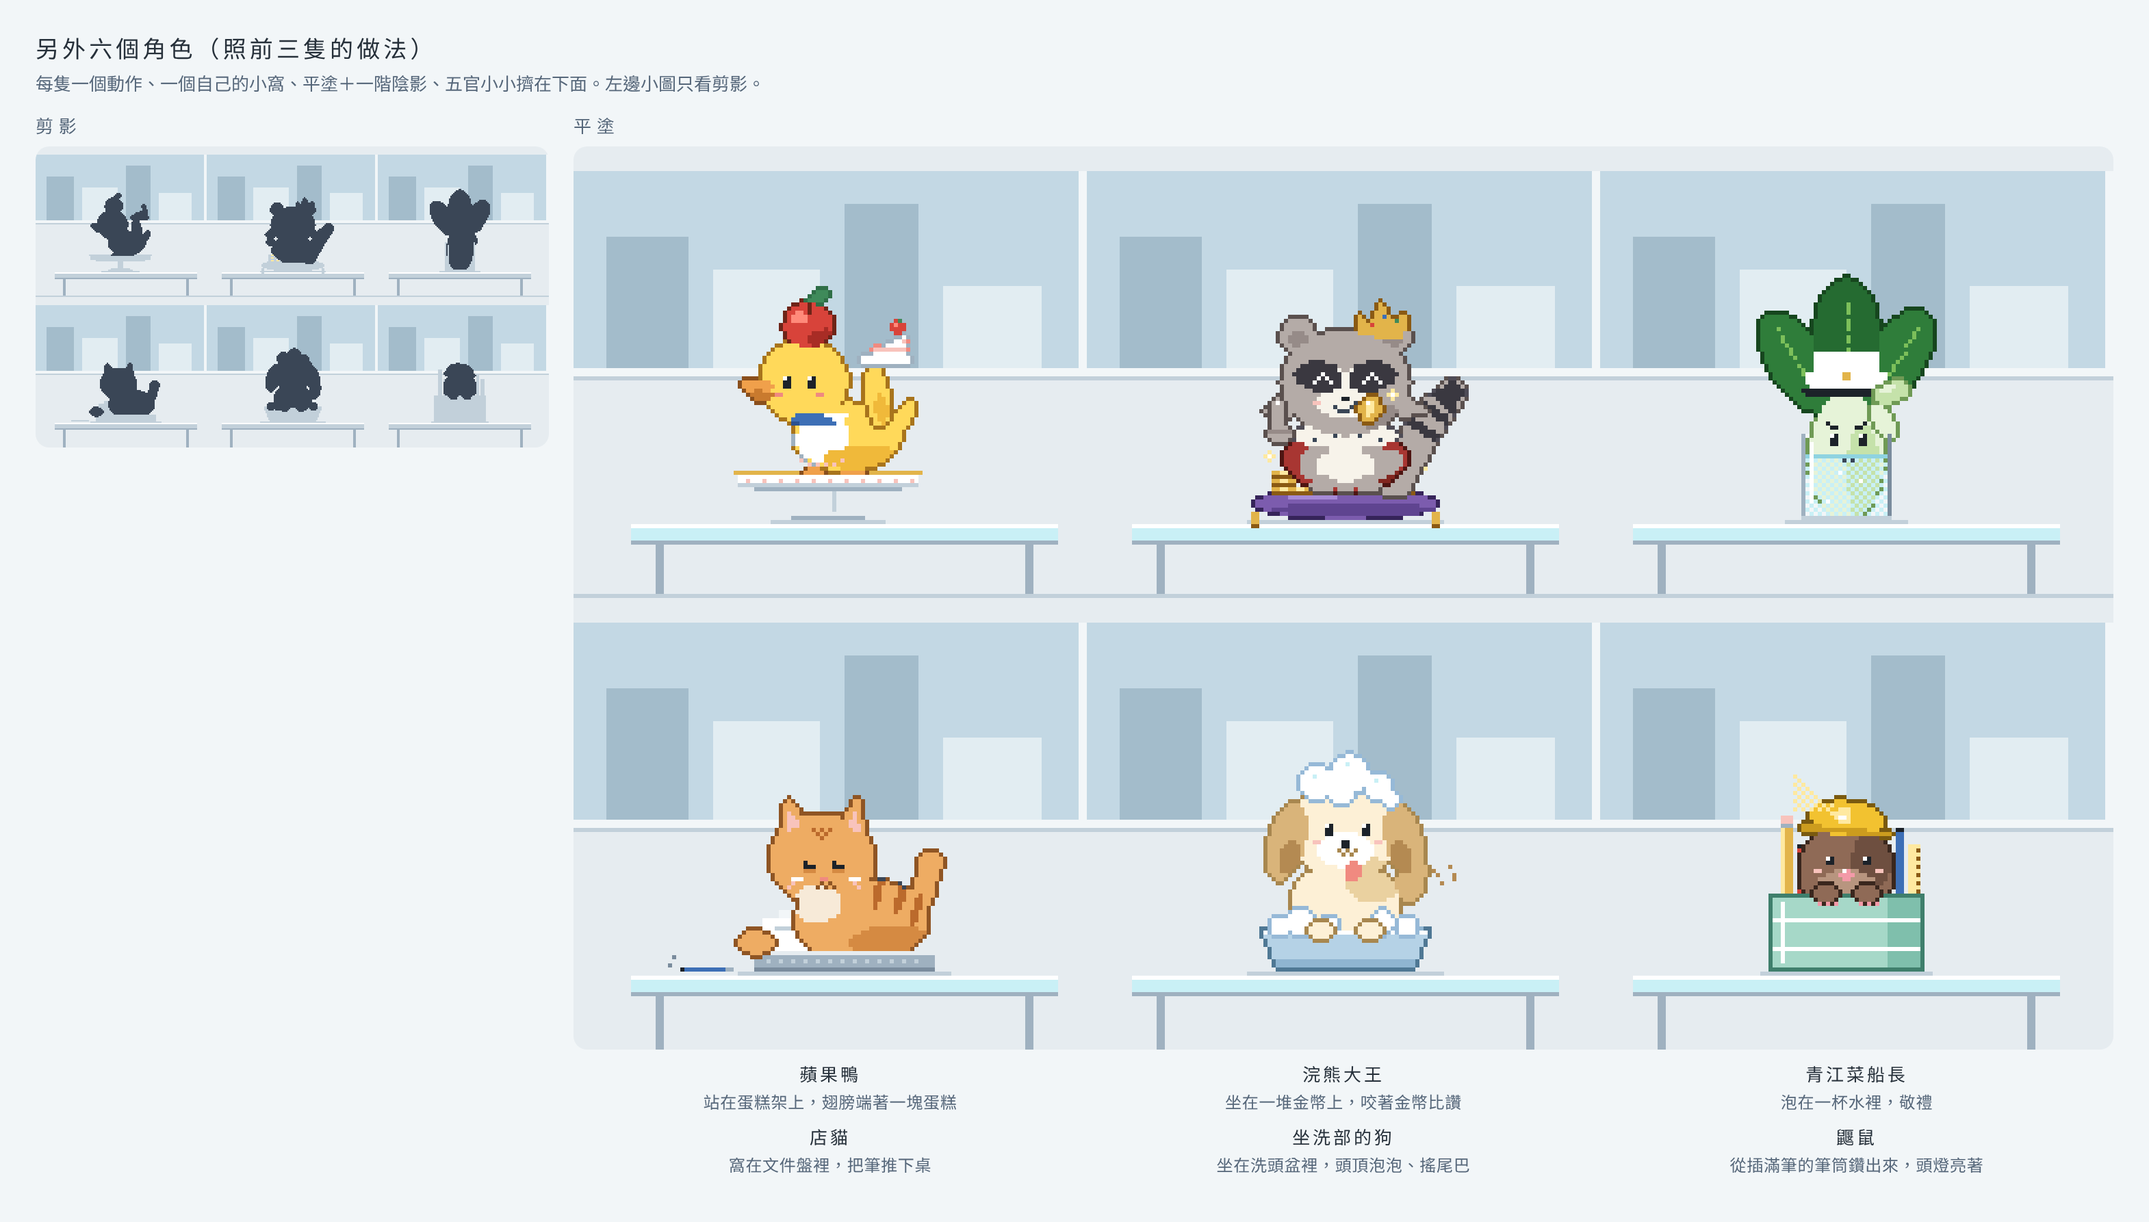
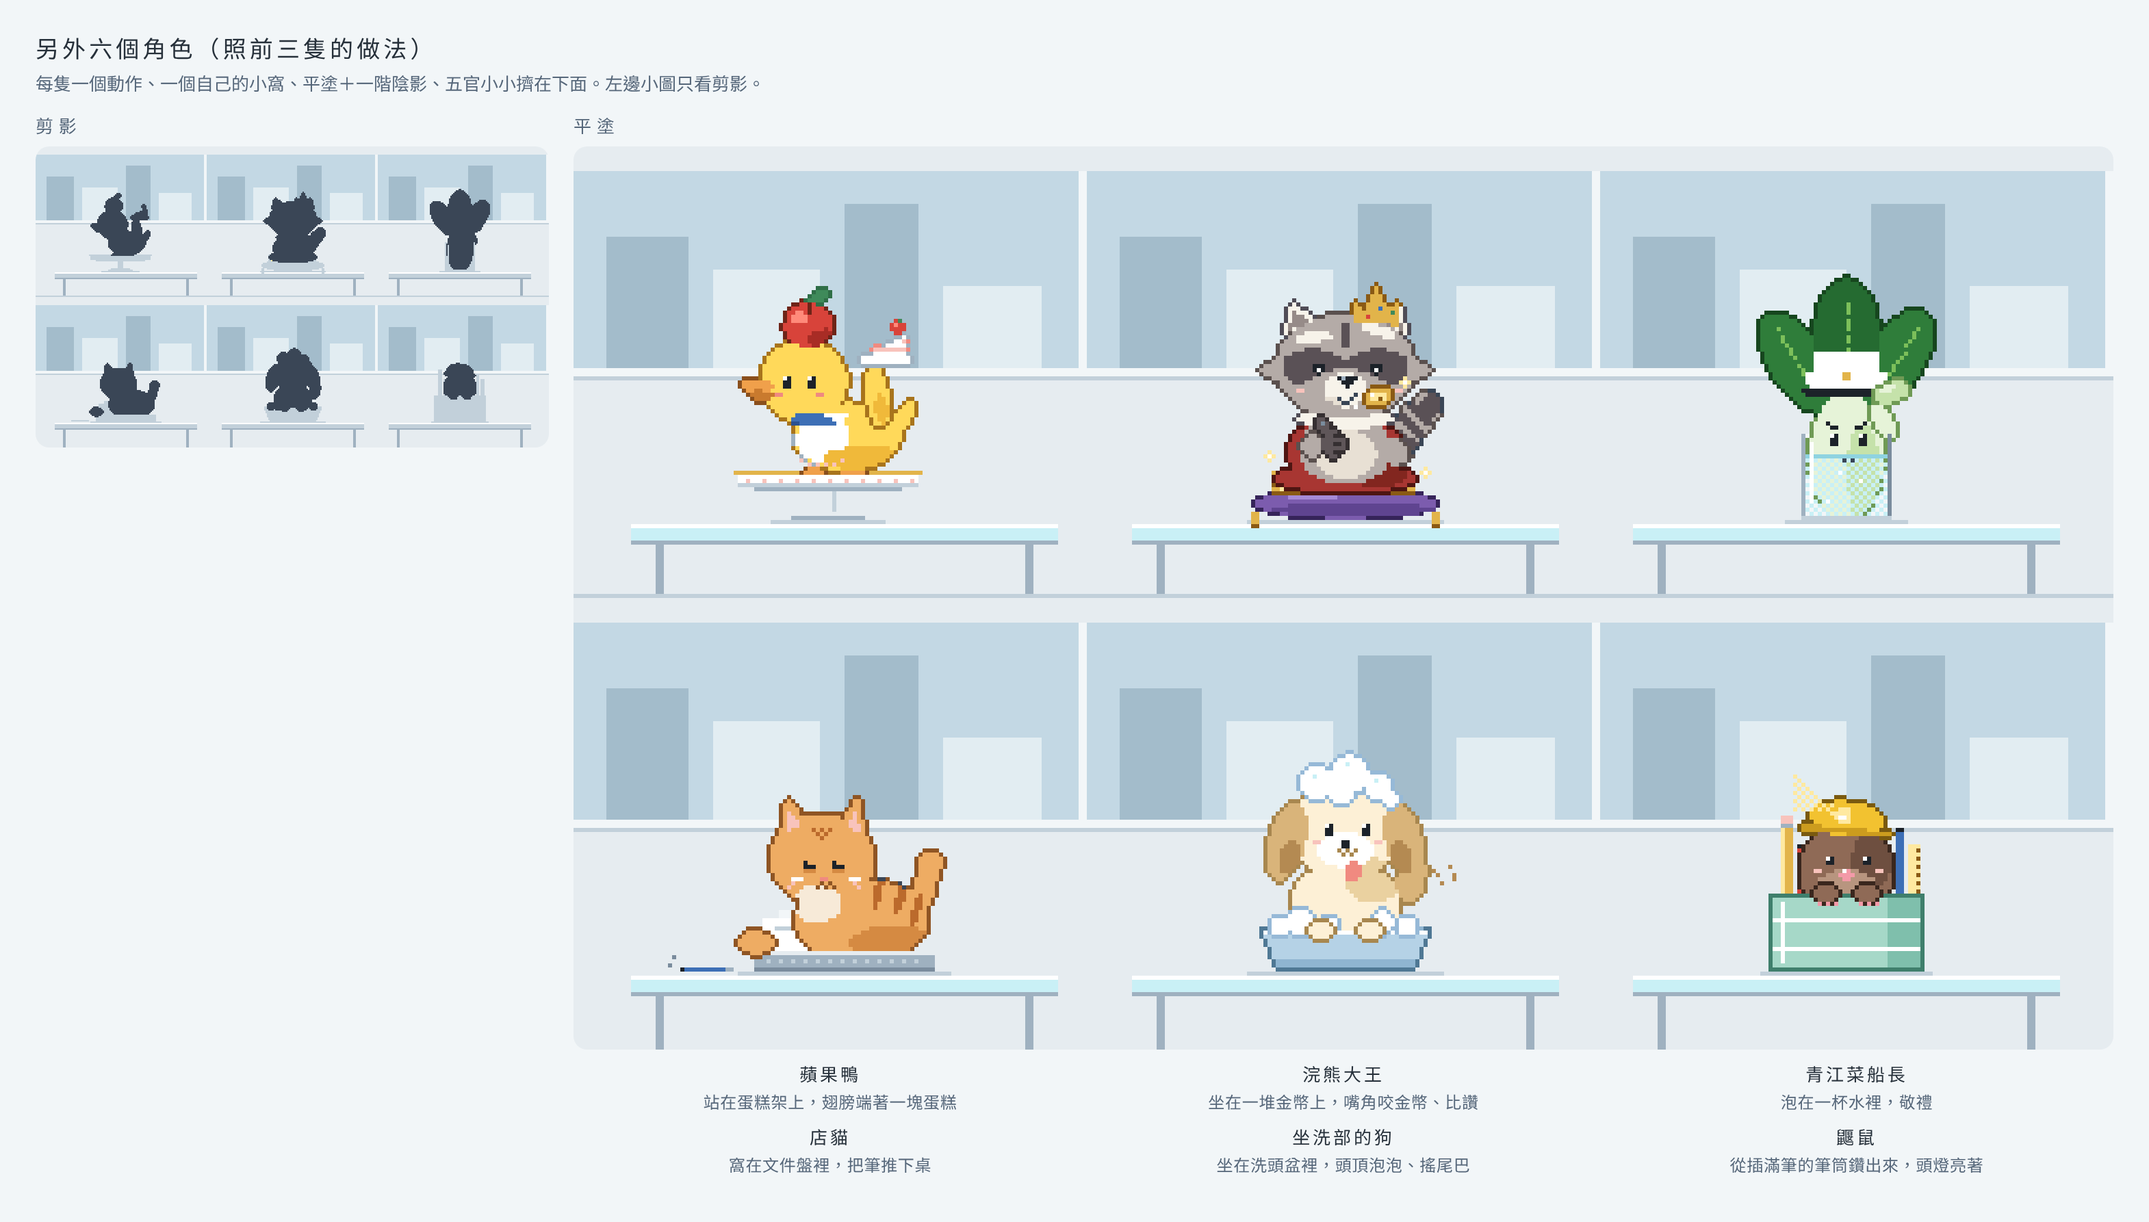
docs: raccoon king v6 per raccoon expert
Claude-Session: https://claude.ai/code/session_01DfELKGAuUeHGLNNJha5AAX

Changed region(s): [[0.5618, 0.2156, 0.6866, 0.4311], [0.5618, 0.8931, 0.6866, 0.9239], [0.1248, 0.154, 0.1561, 0.2156]]

diff --git a/docs/plans/company/cast.html b/docs/plans/company/cast.html
@@ -18,7 +18,7 @@ canvas { image-rendering: pixelated; display: block; border-radius: 10px; }
   <div class="col"><h2>平塗</h2><canvas id="b" width="375" height="220"></canvas>
     <div class="names">
       <div>蘋果鴨<small>站在蛋糕架上，翅膀端著一塊蛋糕</small></div>
-      <div>浣熊大王<small>坐在一堆金幣上，咬著金幣比讚</small></div>
+      <div>浣熊大王<small>坐在一堆金幣上，嘴角咬金幣、比讚</small></div>
       <div>青江菜船長<small>泡在一杯水裡，敬禮</small></div>
       <div>店貓<small>窩在文件盤裡，把筆推下桌</small></div>
       <div>坐洗部的狗<small>坐在洗頭盆裡，頭頂泡泡、搖尾巴</small></div>
@@ -44,6 +44,7 @@ const C = { ink0: '#1c2229', ink2: '#3a4656', ink3: '#56677a', g1: '#7a8c9d', g2
   // 坐洗部的狗
   cr: '#fdf0d6', cr2: '#ead1a0', cr0: '#a8874f', ear: '#d9b47a', ear2: '#b48a52', bub0: '#96b9d7', tub: '#b5d2e6', tub2: '#8fb5d1', tub0: '#4f7894',
   // 鼴鼠
+  rm: '#5a5156', rb: '#e8e0d4', rh: '#5f5659', rh0: '#352f31',
   rw: '#b4aba7', rw2: '#968b88', rw0: '#5a504e', soot: '#6f6566',
   pu: '#7c5cae', pu2: '#5f4490', pu0: '#36245a', puh: '#a68ad6', mt: '#a6d8c8', mt2: '#7fbfac', mt0: '#3f7f6c',
   br: '#8f6a56', br2: '#6e4f40', br0: '#3a271e', brl: '#b8957f', hat: '#f2c230', hat2: '#cc9c1e', hat0: '#7a5a10', mpk: '#f39aa8' };
@@ -51,7 +52,7 @@ const C = { ink0: '#1c2229', ink2: '#3a4656', ink3: '#56677a', g1: '#7a8c9d', g2
 const OLC = { [C.wh]: C.g2, [C.y1]: C.y0, [C.y2]: C.y0, [C.red]: C.red0, [C.red2]: C.red0, [C.redh]: C.red0, [C.gr1]: C.gr0, [C.b1]: C.b0, [C.o2]: C.o0, [C.o1]: C.o0,
   [C.rg]: C.rg0, [C.rg2]: C.rg0, [C.mask]: C.rg0, [C.fur]: C.rg0, [C.cape]: C.cape0, [C.cape2]: C.cape0, [C.au1]: C.au0, [C.au2]: C.au0,
   [C.lf]: C.lf0, [C.lf2]: C.lf0, [C.st]: C.st0, [C.st2]: C.st0, [C.ct]: C.ct0, [C.ct2]: C.ct0, [C.cw]: C.ct0, [C.cr]: C.cr0, [C.cr2]: C.cr0, [C.ear]: C.cr0, [C.ear2]: C.cr0,
-  [C.br]: C.br0, [C.br2]: C.br0, [C.brl]: C.br0, [C.hat]: C.hat0, [C.hat2]: C.hat0, [C.pk2]: C.pink, [C.mpk]: C.red2, [C.pu]: C.pu0, [C.rw]: C.rw0, [C.rw2]: C.rw0, [C.mt]: C.mt0 };
+  [C.br]: C.br0, [C.br2]: C.br0, [C.brl]: C.br0, [C.hat]: C.hat0, [C.hat2]: C.hat0, [C.pk2]: C.pink, [C.mpk]: C.red2, [C.pu]: C.pu0, [C.rw]: C.rw0, [C.rw2]: C.rw0, [C.rh]: C.rh0, [C.rb]: C.rw0, [C.mt]: C.mt0 };
 
 function scene(X, sil) {
   const R = (a, b, w, h, col) => { X.fillStyle = col; X.fillRect(Math.round(a), Math.round(b), Math.round(w), Math.round(h)); };
@@ -118,45 +119,55 @@ function scene(X, sil) {
     lel(Kc, kx, ky, 6.5, 1.4, C.wh); lpoly(Kc, [[kx - 4, ky - 1], [kx + 5, ky - 1], [kx + 5, ky - 6]], C.wh); for (let i = kx - 3; i <= kx + 4; i++) lp(Kc, i, ky - 3, C.pk2); lp(Kc, kx + 4, ky - 5, C.pk2);
     outline(Kc); lel(Kc, kx + 3, ky - 8, 1.6, 1.6, C.red); lp(Kc, kx + 3, ky - 10, C.gr1); lp(Kc, kx + 2, ky - 9, C.redh); blit(Kc, dy);
   }
-  // ---- 浣熊大王（第三版，妹妹：「現在是乖，還沒到想捏」）：頭大身小圓滾滾、暖灰、小熊貓那種小眼罩、
-  //      瞇眼壞笑（酷洛米的「哼～我最棒」）、金幣咬在嘴角露一顆門牙、另一手比讚、屁股下一顆一顆的金幣、整件紅披風＋白毛領。
-  //      第四版（妹妹：「變成灰色泰迪熊」）：眼罩改回一條橫過眼睛、兩頰蓬毛、蓬蓬條紋尾巴往上翹、身體矮一半、^ ^ 畫大、拿掉煤灰 ----
+  // ---- 浣熊大王（第六版：浣熊專家＋妹妹的定案清單）----
+  //  使用者說上一版「很詭異」。專家：眼罩畫反了（分開的眼圈＋中間白線是貉／熊貓，浣熊是一條連起來的面罩、白色在上面當眉毛）、
+  //  黑底白 ^ 像空眼窩、沒有吻部臉是平的、毛領黑點像一排牙、肚子像第二張臉、手像細棍、尾巴從肩膀長出來。
+  //  定案：一條深灰面罩（眉心細、兩端往下斜）＋兩道白眉（一邊挑高）；黑豆眼＋亮點、下緣彎；白色小倒三角吻部、鼻子比眼睛大；
+  //  一邊嘴角上揚、金幣橫咬在那邊露一顆小牙；圓豆坐姿頭稍大、肚子奶油淺灰、毛領乾淨、披風垂在背後鋪在金幣上；
+  //  手短胖深色像戴手套、胸前拳頭豎拇指、叉腰只露手肘；環紋尾巴從屁股後面繞上來、尾尖深色；耳朵白邊；小皇冠歪戴。
   { const cx = 188, dy = 92;
     N(cx - 24, dy - 1, 48, 1, C.g3);
     el(cx, dy - 5, 23, 4.5, C.pu0); el(cx, dy - 5, 22, 3.6, C.pu); el(cx + 2, dy - 3.5, 20, 1.6, C.pu2); el(cx - 8, dy - 7, 8, .8, C.puh);
     [[-22, -3], [22, -3]].forEach(([a, b]) => { N(cx + a - 1, dy + b, 2, 3, C.au1); N(cx + a - 1, dy + b + 3, 2, 1, C.au0); });
-    const coin = (x0, y0) => { el(x0, y0, 3.4, 1.4, C.au0); el(x0, y0 - .5, 3, .9, C.au1); px(x0 - 1, y0 - 1, C.au2); px(x0, y0 - 1, C.au2); };   // 一顆一顆的金幣
+    const coin = (x0, y0) => { el(x0, y0, 3.4, 1.4, C.au0); el(x0, y0 - .5, 3, .9, C.au1); px(x0 - 1, y0 - 1, C.au2); px(x0, y0 - 1, C.au2); };
     [[-15, 0], [-15, -2], [-15, -4], [-11, 0], [14, 0], [14, -2], [10, 0], [-4, 0], [3, 0], [-7, -1.5], [7, -1.5], [0, -1.5]].forEach(([a, b]) => coin(cx + a, dy - 8 + b));
-    if (!sil) [[-19, -17], [18, -14]].forEach(([a, b]) => { px(cx + a, dy + b, C.wh); px(cx + a - 1, dy + b, C.au2); px(cx + a + 1, dy + b, C.au2); px(cx + a, dy + b - 1, C.au2); px(cx + a, dy + b + 1, C.au2); });
+    if (!sil) [[-19, -17], [19, -13]].forEach(([a, b]) => { px(cx + a, dy + b, C.wh); px(cx + a - 1, dy + b, C.au2); px(cx + a + 1, dy + b, C.au2); px(cx + a, dy + b - 1, C.au2); px(cx + a, dy + b + 1, C.au2); });
     const by = dy - 10, { L, E, PG, at } = mk(cx, by);
-    { const Tl = Lay(); const tp = t => at(9 + t * 10, -1 - t * 19 + t * t * 4); for (let k = 0; k <= 24; k++) { const t = k / 24, [p, q] = tp(t); lel(Tl, p, q, (3.2 - t * .7) * S, (3.2 - t * .7) * S, C.rw); }
-      [.52, .7, .88].forEach(t => { const [p, q] = tp(t), ang = Math.atan2(-19 + 8 * t, 10); lel(Tl, p, q, .9 * S, 4 * S, C.mask, ang, C.rw); }); { const [p, q] = tp(1.02); lel(Tl, p, q, 2 * S, 2 * S, C.mask, 0, C.rw); } outline(Tl); blit(Tl, dy); }   // 灰黑條紋的蓬蓬尾巴，從屁股旁邊翹出來（另一層，畫在身體後面）
-    E(0, -4.5, 11, 6, C.cape); E(5, -2, 5, 3.5, C.cape2, 0, C.cape);                                       // 整件紅披風
-    E(0, -3.6, 8.5, 4.8, C.rw); E(0, -3, 5.2, 3.2, C.fur, 0, C.rw);                                         // 矮矮圓圓的肚子
-    E(-4, .3, 2.5, 1.5, C.rw); E(4, .3, 2.5, 1.5, C.rw);                                                     // 兩隻小腳
-    E(8.2, -4, 2, 2.2, C.rw);                                                                                // 叉腰的手
-    E(0, -8.5, 9.5, 2.3, C.fur);                                                                             // 白毛領
-    E(-8.5, -26.5, 3.2, 3.2, C.rw); E(8.5, -26.5, 3.2, 3.2, C.rw); E(-8.5, -26, 1.6, 1.6, C.rw2, 0, C.rw); E(8.5, -26, 1.6, 1.6, C.rw2, 0, C.rw);
-    E(0, -18, 11.5, 9.5, C.rw);                                                                              // 頭
-    PG([[-10.5, -16], [-14.8, -13], [-9.5, -11.5]], C.rw); PG([[10.5, -16], [14.8, -13], [9.5, -11.5]], C.rw);   // 兩頰的蓬毛（浣熊的招牌）
-    E(-4.6, -19.2, 4.7, 2.7, C.mask, .12, C.rw); E(4.6, -19.2, 4.7, 2.7, C.mask, -.12, C.rw); E(0, -21, 1.2, 3, C.fur, 0, C.mask);   // 一條橫過眼睛的黑眼罩，中間一道白
-    E(0, -14.5, 5, 3, C.fur, 0, C.rw);
-    E(6, -12, 4, 2.4, C.rw2, 0, C.rw);
-    PG([[2, -26.5], [2, -31], [4.3, -29], [6.5, -33], [8.6, -29.2], [11, -30.6], [10.6, -26]], C.au1);     // 小皇冠，歪戴在一邊
+    { const Tl = Lay(), tp = t => at(6 + t * 9, -2 - t * 15 + t * t * 3);                                // 環紋尾巴：從屁股後面繞上來
+      for (let k = 0; k <= 24; k++) { const t = k / 24, [p, q] = tp(t); lel(Tl, p, q, (3.1 - t * .6) * S, (3.1 - t * .6) * S, C.rw); }
+      [.48, .66, .84].forEach(t => { const [p, q] = tp(t), ang = Math.atan2(-15 + 6 * t, 9); lel(Tl, p, q, .9 * S, 4 * S, C.rm, ang, C.rw); });
+      { const [p, q] = tp(1.03); lel(Tl, p, q, 2 * S, 2 * S, C.rm, 0, C.rw); }
+      outline(Tl); blit(Tl, dy); }
+    E(0, -5.5, 10.5, 6.5, C.cape); E(0, -.8, 13, 2.4, C.cape); E(6, -2, 5, 3, C.cape2, 0, C.cape);        // 披風垂在背後、鋪在金幣上
+    E(0, -6, 8.5, 6.2, C.rw); E(0, -5.2, 5.6, 4.4, C.rb, 0, C.rw);                                        // 圓豆身體、奶油淺灰肚子
+    E(9, -5.5, 2.2, 2.4, C.rw);                                                                              // 叉腰：只露手肘
+    E(0, -11.6, 8.6, 1.9, C.fur);                                                                            // 乾淨的白毛領
+    PG([[-11.5, -26.5], [-9.6, -33], [-5, -29]], C.fur); PG([[11.5, -26.5], [9.6, -33], [5, -29]], C.fur);   // 耳朵：白邊
+    PG([[-10.4, -27.4], [-9.4, -31.3], [-6.4, -29]], C.rw2); PG([[10.4, -27.4], [9.4, -31.3], [6.4, -29]], C.rw2);
+    E(0, -21, 12.6, 9.4, C.rw);                                                                              // 頭：寬過高
+    PG([[-11.6, -23.5], [-15.8, -20.2], [-11.4, -17.8]], C.rw); PG([[11.6, -23.5], [15.8, -20.2], [11.4, -17.8]], C.rw);   // 眼罩高度的兩撮頰毛
+    PG([[-11.5, -19.3], [-10.8, -23], [-6.2, -24.6], [-2.2, -23.4], [0, -22.4], [2.2, -23.4], [6.2, -24.6], [10.8, -23], [11.5, -19.3],
+        [8.2, -17.6], [5, -19.4], [2.2, -20.4], [0, -20.9], [-2.2, -20.4], [-5, -19.4], [-8.2, -17.6]], C.rm, C.rw);   // 一條連起來的深灰面罩，眉心細、兩端往下斜
+    E(0, -26.5, .7, 2.4, C.rm, 0, C.rw);                                                                     // 額頭中間一道深色線
+    E(-5.6, -26.3, 3.3, 1, C.fur, -.12, C.rw); E(5.8, -27.6, 3.3, 1, C.fur, .32, C.rw);                     // 兩道白眉，右邊挑高
+    E(0, -16.8, 4, 3, C.fur, 0, C.rw); PG([[-4.4, -18.6], [4.4, -18.6], [0, -13.2]], C.fur, C.rw);           // 白色倒三角吻部
+    E(0, -18.9, 3.6, 1, C.fur, 0, C.rm);
+    E(-2, -14.8, 1.8, .6, C.rb, 0, C.fur);
+    PG([[1.2, -29], [1.2, -33.3], [3.4, -31.4], [5.6, -35.3], [7.7, -31.5], [10, -32.8], [9.6, -28.4]], C.au1);   // 小皇冠歪戴在右耳上
     outline(L);
-    const [kr, kq] = at(6.5, -29.5); F(L, kr - 3, kq + 1, [[0, 0]], C.red); F(L, kr, kq - 1, [[0, 0]], C.b1); F(L, kr + 3, kq, [[0, 0]], C.gr1);
-    [[-6, -1.5], [-2, -2], [2, -2], [6, -1.5]].forEach(([a, b]) => { const [p, q] = at(a, b - 7); F(L, p, q, [[0, 0]], C.ink2); });
-    [[-4.6, -19.2], [4.6, -19.2]].forEach(([a, b]) => { const [p, q] = at(a, b); F(L, p - 2, q + 1, [[0, 0], [1, -1], [2, -2], [3, -1], [4, 0]], C.wh); });   // 大大的 ^ ^ 得意眼
-    const [ex, ey] = at(0, -16);
-    F(L, ex - 1, ey + 1, [[0, 0], [1, 0]], C.ink0);
-    F(L, ex - 3, ey + 3, [[0, 0], [1, 1], [2, 1], [3, 1], [4, 0], [5, -1]], C.ink2); F(L, ex + 1, ey + 5, [[0, 0]], C.wh);   // 嘴角往上斜的壞笑、一顆門牙
-    F(L, ex - 8, ey + 2, [[0, 0], [1, 0]], C.pk2); F(L, ex + 7, ey + 2, [[0, 0], [1, 0]], C.pk2);
+    const [kr, kq] = at(5.6, -30.8); F(L, kr - 3, kq + 1, [[0, 0]], C.red); F(L, kr, kq - 1, [[0, 0]], C.b1); F(L, kr + 3, kq, [[0, 0]], C.gr1);
+    [[-5.4, -21.6], [5.4, -21.6]].forEach(([a, b]) => { const [p, q] = at(a, b);                             // 黑豆眼＋亮點，下緣彎彎（得意、微微瞇）
+      F(L, p - 1, q, [[0, 0], [1, 0], [2, 0], [1, 1], [2, 1], [1, 2]], C.ink0); F(L, p - 1, q + 1, [[0, 0]], C.ink0); F(L, p, q + 1, [[0, 0]], C.wh); });
+    const [nx, ny] = at(0, -18.8); F(L, nx - 2, ny - 1, [[0, 0], [1, 0], [2, 0], [3, 0], [4, 0], [1, 1], [2, 1], [3, 1], [2, 2]], C.ink0); F(L, nx - 1, ny - 1, [[0, 0]], C.g2);   // 鼻子比眼睛大
+    const [mx, my] = at(0, -15.6); F(L, mx - 2, my, [[0, 0], [1, 1], [2, 1], [3, 0], [4, -1]], C.ink2); F(L, mx + 2, my + 2, [[0, 0]], C.wh);   // 一邊嘴角上揚、一顆小牙
+    [[-8.6, -16.8], [8.8, -17.2]].forEach(([a, b]) => { const [p, q] = at(a, b); F(L, p, q, [[0, 0], [1, 0]], C.pk2); });
     blit(L, dy);
-    const Cn = Lay(), [kx, ky] = at(4.8, -13.2);                                                             // 咬在嘴角的金幣
-    lel(Cn, kx, ky, 2.6, 3.2, C.au1, .3); outline(Cn); lel(Cn, kx, ky, 1.3, 1.8, C.au2, .3, C.au1); lp(Cn, kx - 1, ky - 2, C.wh); blit(Cn, dy);
-    const Th = Lay(), [tx, ty] = at(-11.5, -9);                                                              // 舉到肩膀旁邊比讚
-    lel(Th, tx, ty, 3, 2.2, C.rw); lel(Th, tx - .5, ty - 5.2, 1.7, 3.6, C.rw); outline(Th); lp(Th, tx - 1, ty - 8, C.wh); for (let i = -3; i <= 2; i++) lp(Th, tx + i, ty - 1, C.rw2); blit(Th, dy);   // 拳頭橫的、大拇指直直往上
-    if (!sil) { const sx = kx + 5, sy = ky - 4; px(sx, sy, C.wh); px(sx - 1, sy, C.au2); px(sx + 1, sy, C.au2); px(sx, sy - 1, C.au2); px(sx, sy + 1, C.au2); }
+    const Cn = Lay(), [kx, ky] = at(5.6, -15.4);                                                             // 金幣橫咬在上揚那邊的嘴角
+    lel(Cn, kx, ky, 3.4, 2.2, C.au1, -.2); outline(Cn); lel(Cn, kx, ky, 2, 1.1, C.au2, -.2, C.au1); lp(Cn, kx - 2, ky - 1, C.wh); lp(Cn, kx, ky, C.au0); blit(Cn, dy);
+    const Hd = Lay(), [hx, hy] = at(-2.4, -8.2);                                                             // 胸前的拳頭＋豎起來的拇指（深色手套）
+    lel(Hd, hx - 5, hy + 2, 2.6, 2.6, C.rw); lel(Hd, hx, hy + 1.5, 3, 3.4, C.rh); lel(Hd, hx - 2.6, hy - 3, 1.3, 2.4, C.rh, -.4);
+    outline(Hd); [0, 2, 4].forEach(d => { lp(Hd, hx, hy + d - 1, C.rh0); lp(Hd, hx + 1, hy + d - 1, C.rh0); }); lp(Hd, hx - 3, hy - 4, C.g1); blit(Hd, dy);   // 比讚：拳頭直的、手指一節一節橫著彎起來，拇指在左上角斜斜豎起（不要放正中間，免得被看成別的手勢）
+    if (!sil) { const sx = kx + 6, sy = ky - 4; px(sx, sy, C.wh); px(sx - 1, sy, C.au2); px(sx + 1, sy, C.au2); px(sx, sy - 1, C.au2); px(sx, sy + 1, C.au2); }
   }
   // ---- 青江菜船長：泡在一杯水裡，一片葉子舉到帽簷敬禮，生氣的粗眉 ----
   { const cx = 310, dy = 92;

diff --git a/docs/plans/company/README.md b/docs/plans/company/README.md
@@ -54,3 +54,4 @@
   - 浣熊大王第四版：妹妹說第三版「變成灰色泰迪熊」（兩小圈眼罩、看不到尾巴、白點眼像被嚇到、身體還是長、金幣堆像托盤、煤灰像鬍渣）。改：一條橫過眼睛的黑眼罩（中間一道白）、兩頰蓬毛、蓬蓬條紋尾巴往上翹、^ ^ 畫大、身體矮一半、比讚的手舉到肩膀、金幣改成一疊一疊、拿掉煤灰。`raccoon-before-after.png` 三張：第二版、第三版、第四版。
   - 浣熊大王第五版：妹妹說第四版「像浣熊了、差一點就想捏」，卡尾巴（黑一塊像翅膀）、比讚看不出、嘴像嘟嘴。改：尾巴另一層畫在身體後面、從屁股旁邊彎彎翹出來、灰底三圈細黑條紋＋黑尾尖；拳頭橫的、大拇指直直往上；嘴角往上斜的壞笑。`raccoon-before-after.png` 改成：原本、第四版、第五版。
   - 妹妹：「想捏了！可以定稿！」最後把大拇指放大一點（遠看才不會像握拳）。**浣熊大王定稿**。
+  - **浣熊大王第六版**（使用者：「不覺得很詭異嗎，請了解浣熊的專家看一下」）。浣熊專家（AI 審稿員，野外觀察＋動物造型顧問）：詭異來自眼罩畫反（分開眼圈＋中間白線是貉／熊貓；浣熊是一條面罩、白色在上面當眉）、黑底白 ^ 像空眼窩、沒吻部臉平的像人戴面具、毛領黑點像牙＋肚子像第二張臉、手像細棍、尾巴從肩膀長出來；之前偏向狸克（貉）。妹妹承認上一版看漏，跟專家折衷成定案清單：深灰一條面罩（眉心細、兩端下斜）＋兩道白眉（右邊挑高）；黑豆眼＋亮點、下緣彎、微瞇；白倒三角吻部、鼻子比眼睛大；一邊嘴角上揚、金幣橫咬那邊露小牙、腮紅；圓豆坐姿頭稍大、奶油淺灰肚子、乾淨毛領、披風垂背後鋪在金幣上；手短胖深色手套，胸前拳頭（手指一節節橫彎）＋拇指在左上角斜豎（不要放正中間，免得看成別的手勢）、叉腰只露手肘；環紋尾巴從屁股後面繞上來、環紋垂直尾巴方向、尾尖深色；耳朵白邊；小皇冠歪戴右耳。對照 `raccoon-before-after.png`（左第五版、右第六版）。

diff --git a/changelog/2026-11.md b/changelog/2026-11.md
@@ -1336,3 +1336,8 @@
 
 ## 2026-11-24 23:30（台灣）　開公司：浣熊大王定稿
 - 妹妹說「想捏了，可以定稿」。最後把比讚的大拇指放大一點，遠看才不會像握拳。只是企劃，網站沒有變。
+
+## 2026-11-24 23:55（台灣）　開公司：浣熊大王照浣熊專家的意見重畫
+- 你說上一版很詭異，請了浣熊專家看：眼罩畫反了（分開的兩圈是狸貓、熊貓，浣熊是一條連起來的面罩、上面兩道白眉）、眼睛像空眼窩、沒有嘴鼻、毛領的黑點像牙齒讓肚子像第二張臉。
+- 妹妹跟專家對好清單後重畫：一條深灰面罩＋白眉（一邊挑高）、黑豆眼有亮點、白色嘴鼻＋大黑鼻子、嘴角咬金幣露小牙、深色像戴手套的手在胸前比讚、環紋尾巴從屁股後面繞上來、耳朵白邊。
+- 對照 `docs/plans/company/raccoon-before-after.png`。只是企劃，網站沒有變。
